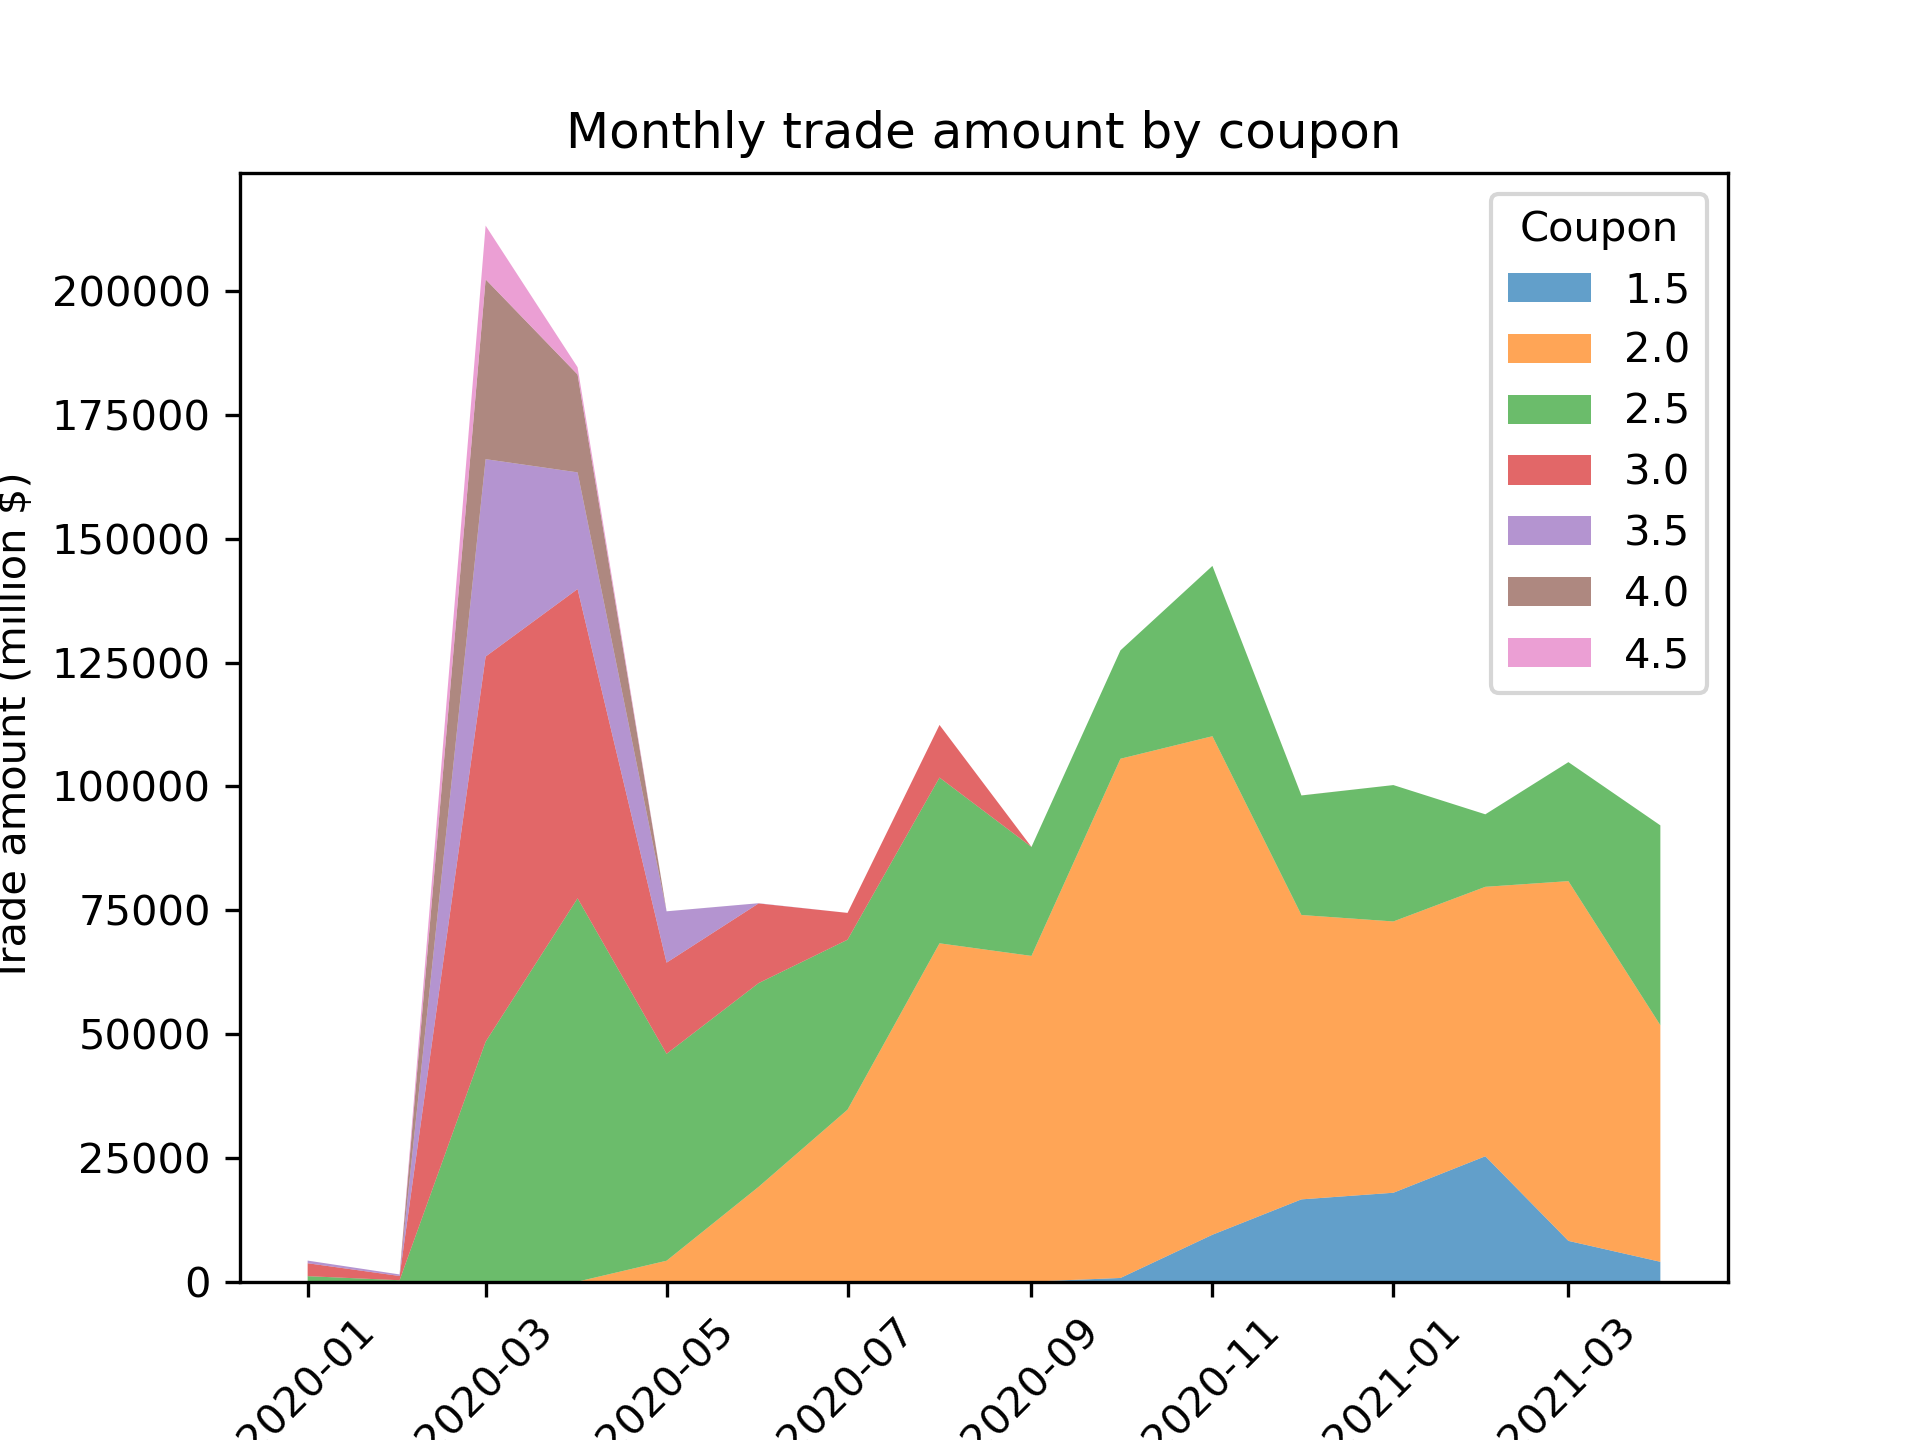
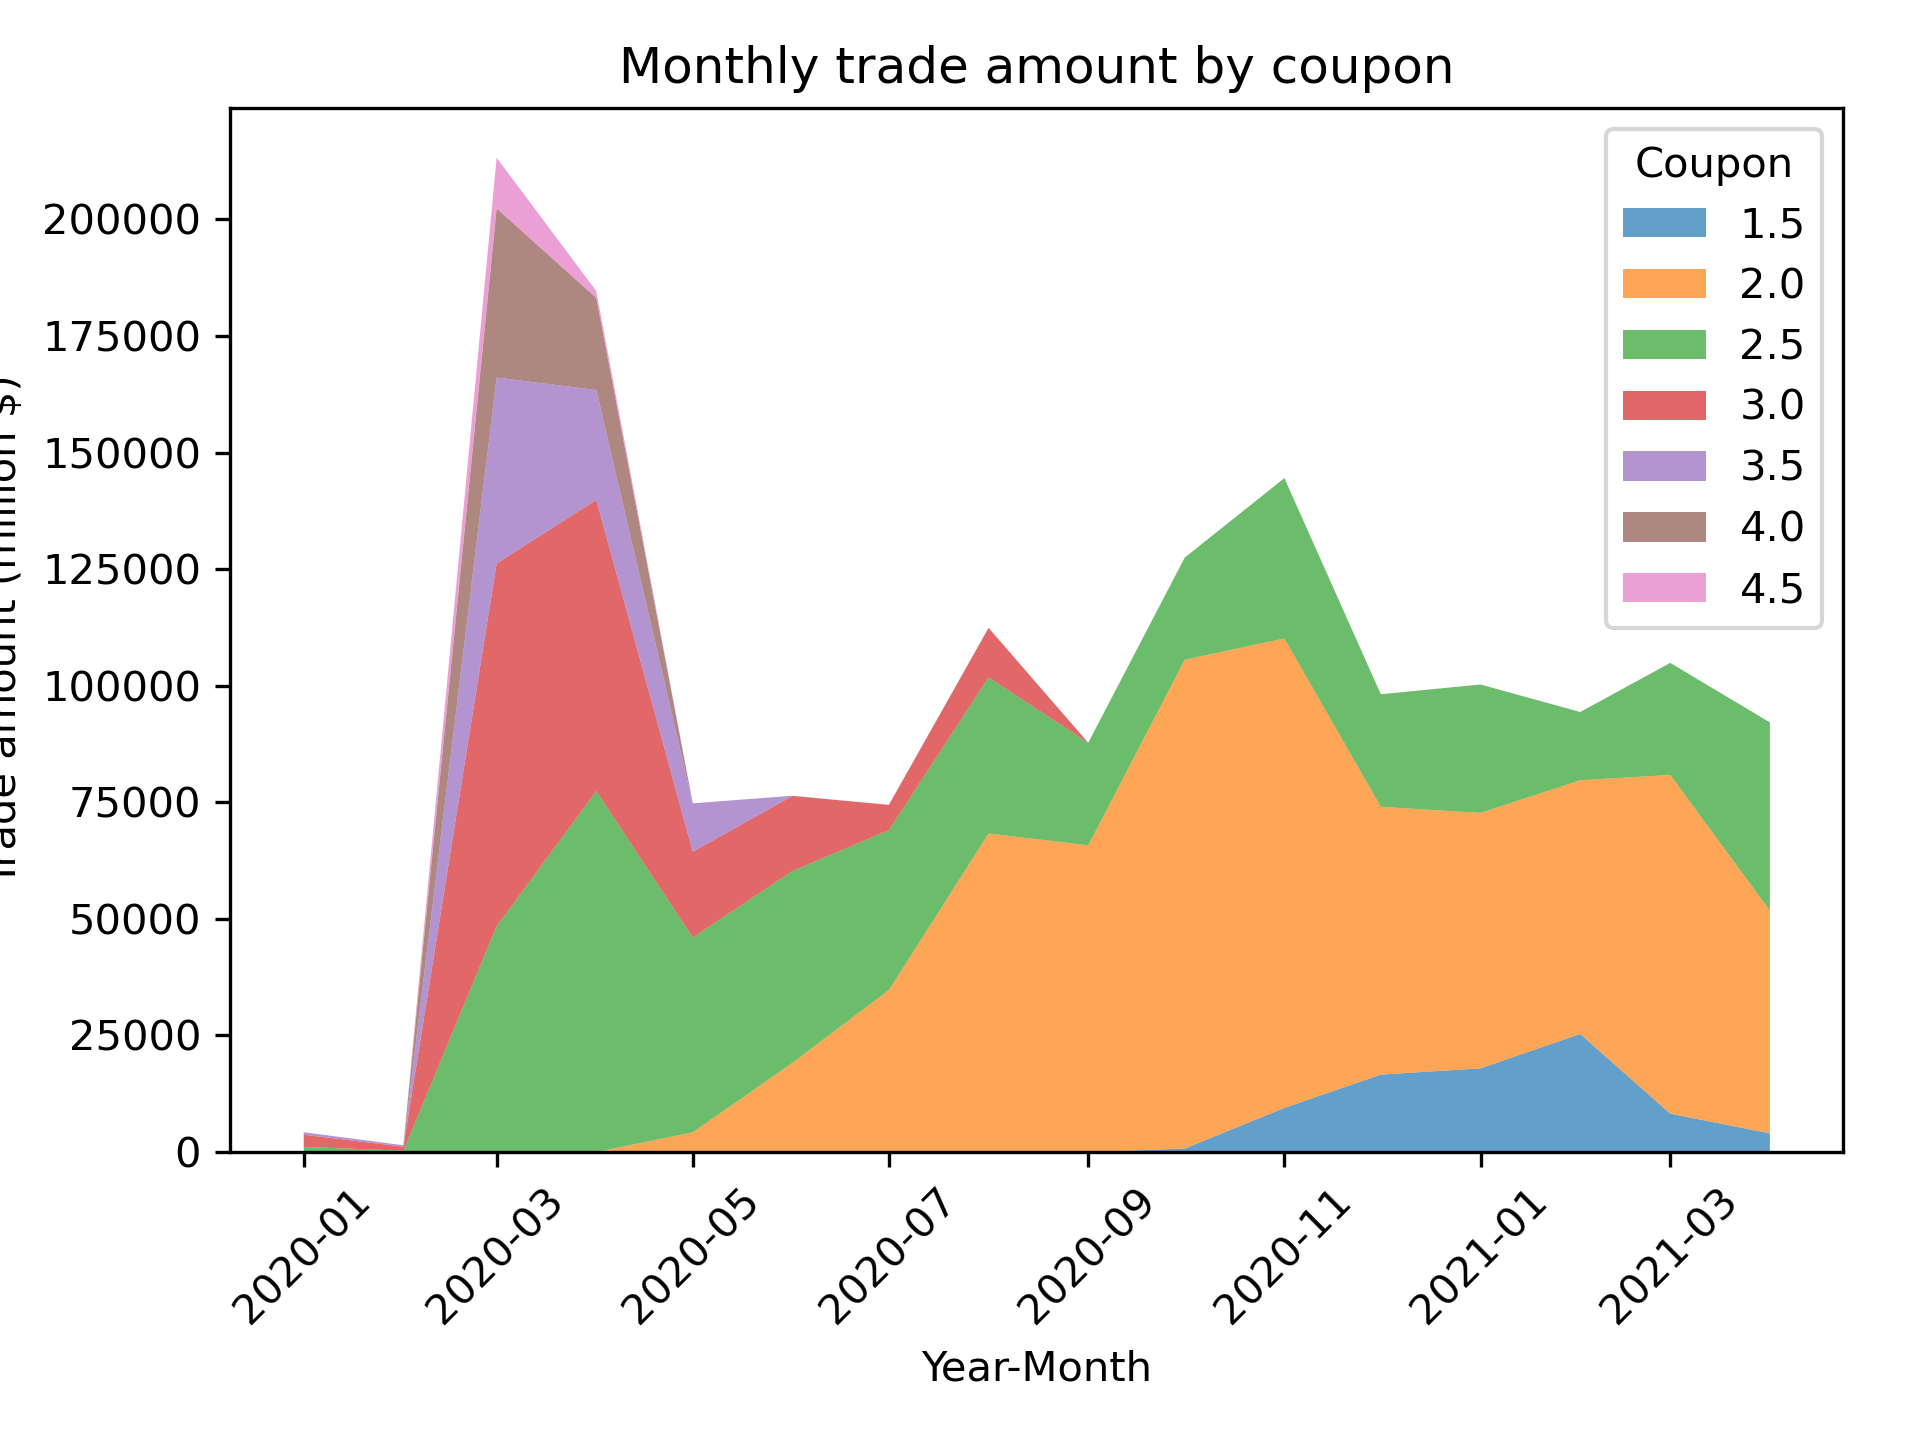
Small figure adjustment date fits.

diff --git a/code/initial_anaysis/fed_mbs.py b/code/initial_anaysis/fed_mbs.py
@@ -365,7 +365,7 @@ if __name__ == '__main__':
     plt.xlabel('Forward days (settlement date - trade date)')
     plt.ylabel('Frequency')
     plt.title('Distribution of Bloomberg forward days')
-    plt.savefig(f'{auction_save_folder}/distribution_of_forwarddays_bloomberg.png', dpi=300)
+    plt.savefig(f'{auction_save_folder}/figures/distribution_of_forwarddays_bloomberg.png', dpi=300)
 
     # %%
     # * plot histogram of forward days
@@ -374,7 +374,7 @@ if __name__ == '__main__':
     plt.xlabel('Forward days (settlement date - trade date)')
     plt.ylabel('Frequency')
     plt.title('Distribution of FED auctions forward days (Fannie Mae and Freddie Mac)')
-    plt.savefig(f'{auction_save_folder}/distribution_of_forwarddays_FED.png', dpi=300)
+    plt.savefig(f'{auction_save_folder}/figures/distribution_of_forwarddays_FED.png', dpi=300)
     plt.show()  
 
     # * Plot price and amount by coupon
@@ -425,7 +425,7 @@ if __name__ == '__main__':
     )   
 
     # %%
-    # scatter price by month
+    # **************************** scatter price by month
     # by coupon
     # df_merged_1m = df_merged_1m[df_merged_1m.Coupon.isin([ 4.0])]
 
@@ -444,7 +444,12 @@ if __name__ == '__main__':
 
         i += 1
     
-    
+    plt.subplots_adjust(top=0.925, 
+            bottom=0.20, 
+            left=0.12, 
+            right=0.96, 
+            hspace=0.01, 
+            wspace=0.01)
 
     plt.legend(loc = 'upper right', title = 'Coupon')
     plt.title('Mean price by month')
@@ -452,7 +457,7 @@ if __name__ == '__main__':
     plt.ylabel('Mean price ($)')
     plt.xticks(rotation=45)
 
-    plt.savefig(f'{auction_save_folder}/fed_monthly_price_mean_by_coupon.png', dpi=300)
+    plt.savefig(f'{auction_save_folder}/figures/fed_monthly_price_mean_by_coupon.png', dpi=300)
 
 
 
@@ -516,13 +521,21 @@ if __name__ == '__main__':
                 dict_amount_per_coupon.values(),
                 labels=dict_amount_per_coupon.keys(), alpha=0.7)
     
+    plt.subplots_adjust(top=0.925, 
+                bottom=0.20, 
+                left=0.12, 
+                right=0.96, 
+                hspace=0.01, 
+                wspace=0.01)
+
+    
     ax.legend(loc='upper right',title='Coupon')
     # legend name Coupon
     ax.set_title('Monthly trade amount by coupon')
     ax.set_ylabel('Trade amount (million $)')
     ax.set_xlabel('Year-Month')
     plt.xticks(rotation=45)
-    plt.savefig(f'{auction_save_folder}/fed_monthly_trade_amount_by_coupon.png', dpi=300)
+    plt.savefig(f'{auction_save_folder}/figures/fed_monthly_trade_amount_by_coupon.png', dpi=300)
 
     # ***** End area graph for trade amount by coupon ***** #
 
